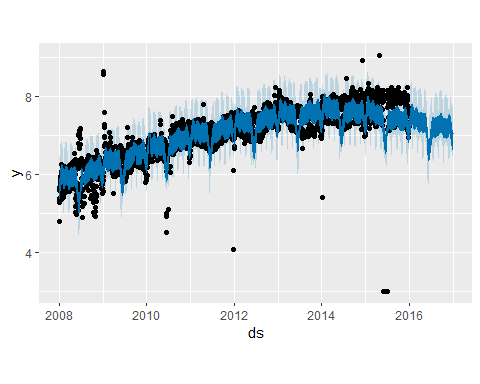
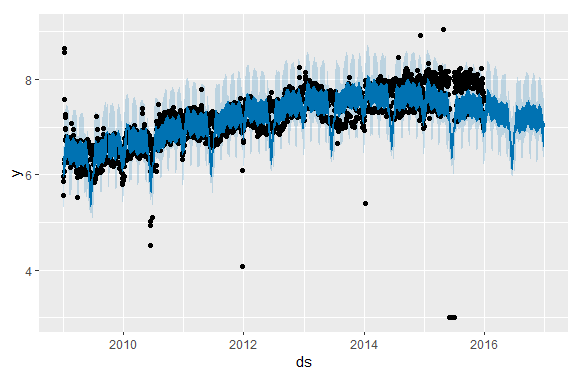
update

diff --git a/README.md b/README.md
@@ -1,13 +1,11 @@
 
 <!-- README.md is generated from README.Rmd. Please edit that file -->
 
-# prophetExt: An Extension for Prophet Time-Series Forecasting
+# prophetExt: Additional Features for Prophet Time-Series Forecasting
 
 <!-- badges: start -->
 
 <!-- badges: end -->
-
-The goal of prophetExt is to …
 
 ## Installation
 
@@ -22,15 +20,15 @@ remotes::install_github("hoxo-m/prophetExt")
 This is a basic example which shows you how to solve a common problem:
 
 ``` r
-df <- read.csv("https://raw.githubusercontent.com/facebook/prophet/master/examples/example_wp_log_R_outliers2.csv")
+df <- read.csv("https://raw.githubusercontent.com/facebook/prophet/master/examples/example_wp_log_R_outliers2.csv", skip = 337, col.names = c("ds", "y"))
 head(df)
 #>           ds        y
-#> 1 2008-01-30 5.976351
-#> 2 2008-01-16 6.049733
-#> 3 2008-01-17 6.011267
-#> 4 2008-01-14 5.953243
-#> 5 2008-01-15 5.910797
-#> 6 2008-01-12 5.407172
+#> 1 2009-01-29 6.775366
+#> 2 2009-01-19 6.799056
+#> 3 2009-01-18 6.270988
+#> 4 2009-01-13 7.197435
+#> 5 2009-01-12 7.270313
+#> 6 2009-01-11 6.710523
 ```
 
 ``` r
@@ -62,11 +60,10 @@ calendar_plot(outliers)
 ![](man/figures/README-unnamed-chunk-4-1.png)<!-- -->
 
 ``` r
-library(dplyr)
+df$y[df$ds %in% outliers$ds] <- NA
 
-df_without_outliers <- df |> filter(!ds %in% outliers$ds)
-
-model <- prophet(df_without_outliers)
+model <- prophet(df)
+df_future <- make_future_dataframe(model, 365)
 fore <- predict(model, df_future)
 
 plot(model, fore)
